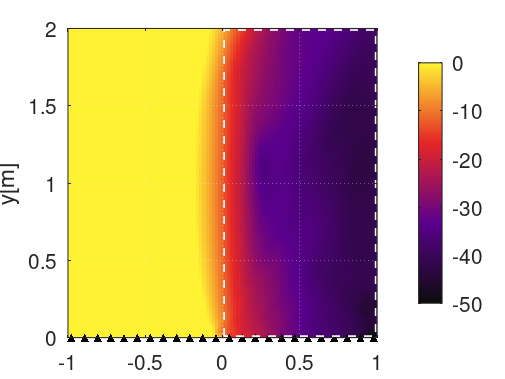
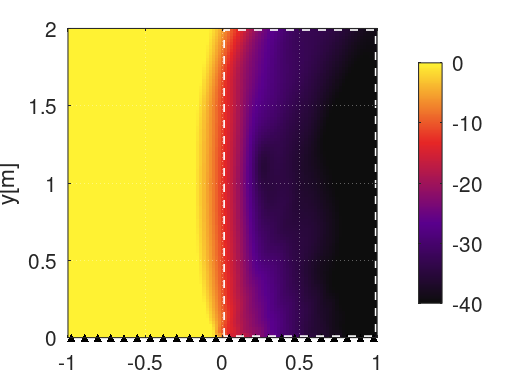
音圧分布範囲を40までに

diff --git a/spl_distribution.m b/spl_distribution.m
@@ -99,7 +99,7 @@ h5 = plot(con_dz(:,1), con_dz(:,2), 'w--', 'LineWidth', 0.8); hold off;
 % グラフの装飾設定
 xlabel("x[m]"); ylabel("y[m]"); % 軸のラベル
 colorbar                        % 画面右側に音圧の大きさと色の対応を示すカラーバーを表示
-clim([-60 0])                 % （コメントアウト：カラーバーの最小値・最大値を固定したい場合に使用）
+clim([-40 0])                
 daspect([1 1 1])                % 空間の縦横比（アスペクト比）を 1:1 に固定
 
 % 表示範囲ををピクセルの「端」ぴったりに合わせる
